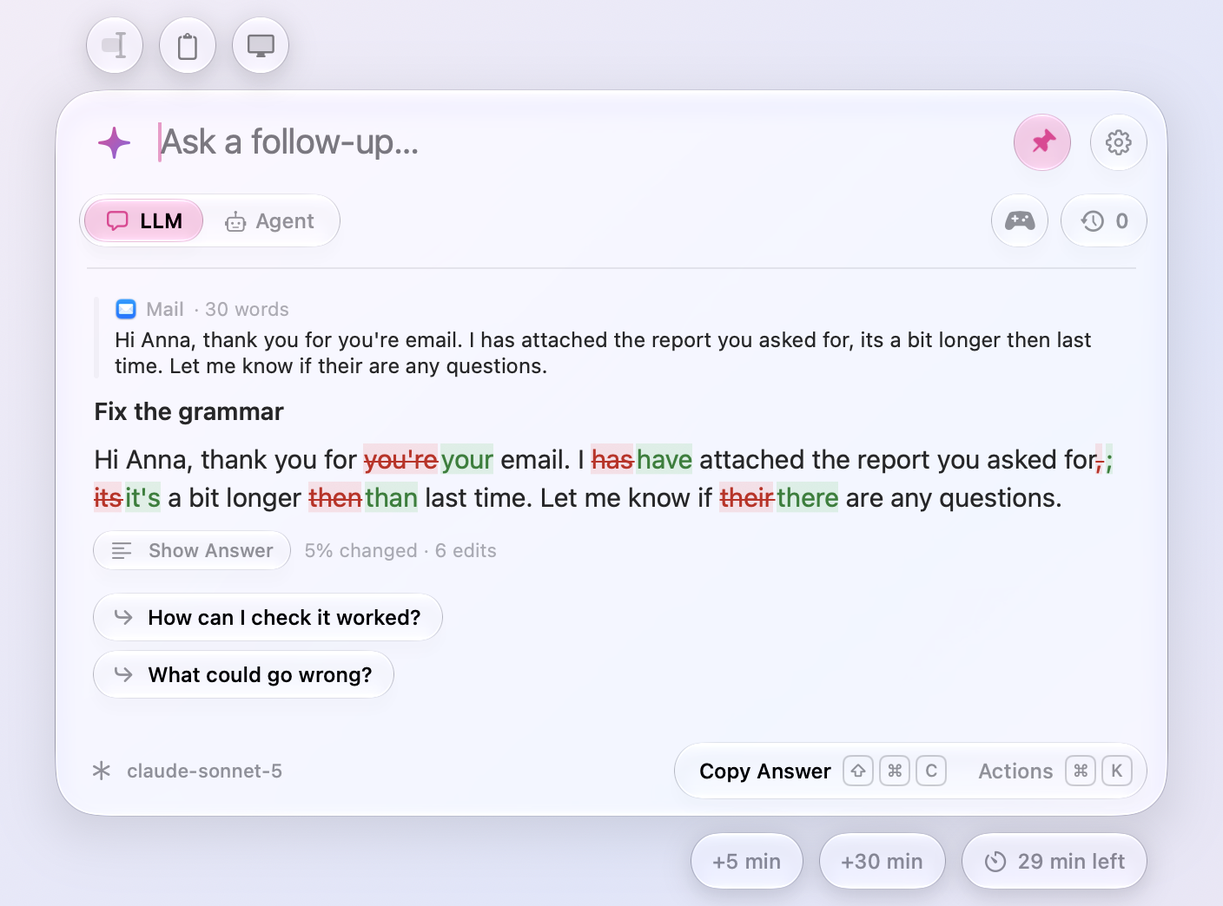
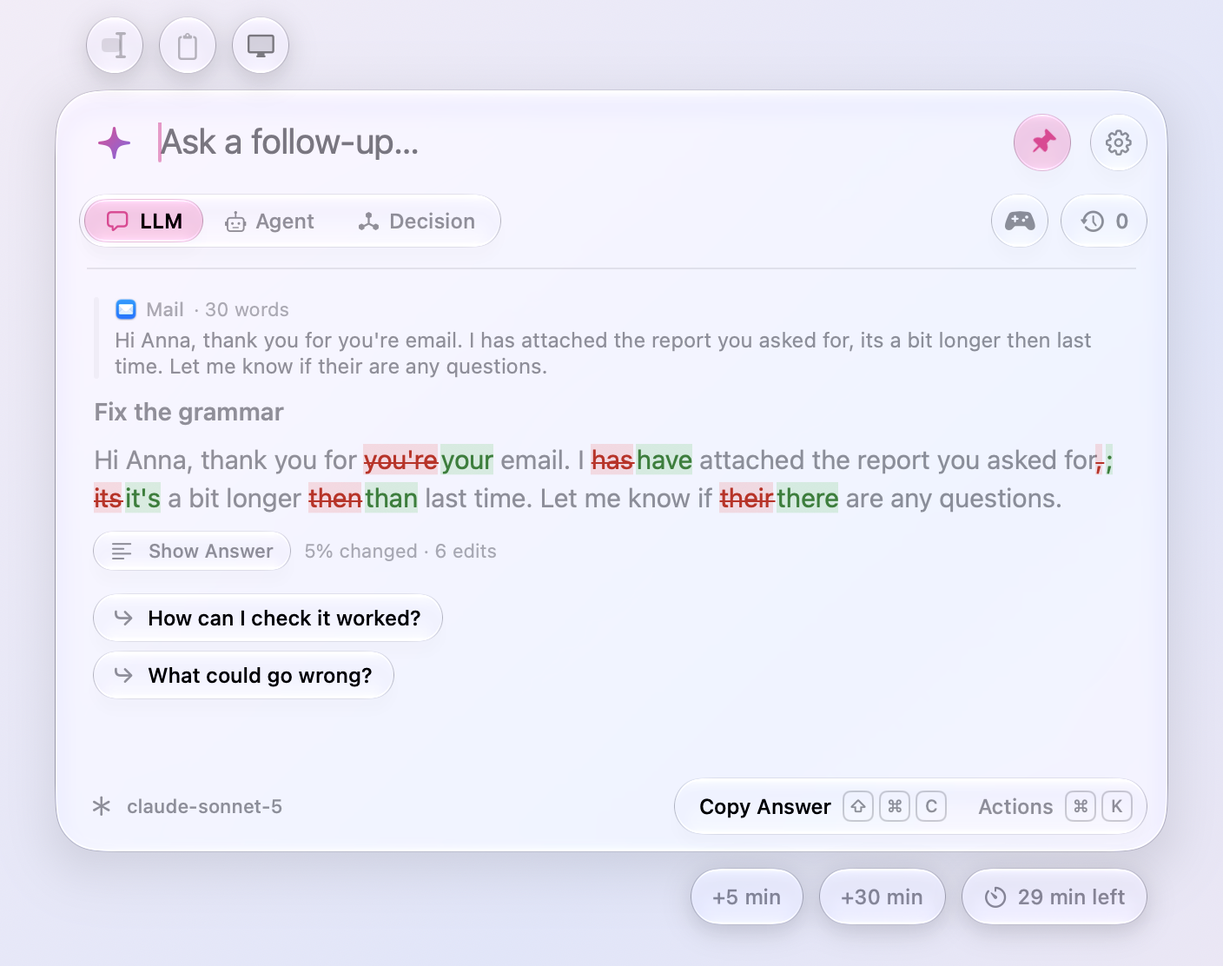
Show What Changed grays the text that stayed and deepens the tints
In a long text with a few edits, a changed hyphen or comma in color on
a faint tint was lost among white text. The text that stayed is now in
the secondary color, since in this view it is context for checking the
changes, so the edits are the brightest thing on the card and an added
word differs from its neighbors in brightness, not only hue. The tints
behind what went and came are stronger on dark glass, where a faint one
sank into whatever was behind the window, and a pastel on light glass.

diff --git a/Meraline/Panel/ChangesView.swift b/Meraline/Panel/ChangesView.swift
@@ -2,8 +2,10 @@ import AppKit
 import SwiftUI
 
 /// An answer drawn as what it changed in the text its question was about (see `TextChanges`), in the answer's
-/// place: what stayed as it was, what went struck through in red, and what came in green, each on a faint tint
-/// of its color so a changed comma or space shows too. The line through removed words tells the two apart
+/// place: what stayed as it was in the secondary color, since here it is context for checking the changes, what
+/// went struck through in red, and what came in green, each on a tint of its color so a changed comma or space
+/// shows too. The gray around them is what makes three edits in a page stand out at a glance, and tells an added
+/// word from its neighbors by brightness, not only hue; the line through removed words tells the two apart
 /// without their colors. Plain text rather than Markdown, since the changes are to the text's own characters,
 /// and code from a code block in monospace. It grows with the answers' zoom, as `MarkdownView` does.
 struct ChangesView: View {
@@ -37,15 +39,16 @@ struct ChangesView: View {
             switch segment {
             case .same(let same):
                 run = AttributedString(same)
+                run.foregroundColor = .secondary
             case .removed(let removed):
                 run = AttributedString(removed)
                 run.foregroundColor = Color(nsColor: .removedText)
-                run.backgroundColor = Color(nsColor: .systemRed).opacity(0.13)
+                run.backgroundColor = Color(nsColor: .removedTint)
                 run.strikethroughStyle = .single
             case .added(let added):
                 run = AttributedString(added)
                 run.foregroundColor = Color(nsColor: .addedText)
-                run.backgroundColor = Color(nsColor: .systemGreen).opacity(0.16)
+                run.backgroundColor = Color(nsColor: .addedTint)
             }
             run.font = font
             text += run
@@ -59,6 +62,11 @@ struct ChangesView: View {
 extension NSColor {
     static let removedText = NSColor(name: nil) { $0.isDark ? .systemRed : NSColor(srgbRed: 0.78, green: 0.13, blue: 0.11, alpha: 1) }
     static let addedText = NSColor(name: nil) { $0.isDark ? .systemGreen : NSColor(srgbRed: 0.1, green: 0.5, blue: 0.2, alpha: 1) }
+
+    /// The tints behind what went and what came in `ChangesView`: stronger on dark glass, where a faint one sinks
+    /// into whatever is behind the window, and a pastel on light glass, where the same tint would shout.
+    static let removedTint = NSColor(name: nil) { NSColor.systemRed.withAlphaComponent($0.isDark ? 0.26 : 0.16) }
+    static let addedTint = NSColor(name: nil) { NSColor.systemGreen.withAlphaComponent($0.isDark ? 0.28 : 0.2) }
 }
 
 private nonisolated extension NSAppearance {

diff --git a/MeralineTests/ShowWhatChangedTests.swift b/MeralineTests/ShowWhatChangedTests.swift
@@ -1,4 +1,5 @@
 import Foundation
+import SwiftUI
 import Testing
 @testable import Meraline
 
@@ -110,6 +111,22 @@ struct ShowWhatChangedTests {
         #expect(back.title == "Show Answer")
         context.run(back, in: .chat)
         #expect(layout.answersShowingChanges.isEmpty)
+    }
+
+    @Test func theTextThatStayedIsGrayAndWhatChangedSitsOnATint() throws {
+        let changes = try #require(TextChanges.diff(from: "i has a apple", to: "i have a apple"))
+        let text = ChangesView.text(of: changes, fontSize: 15)
+        let runs = text.runs.map { (String(text[$0.range].characters), $0) }
+        let stayed = try #require(runs.first { $0.0 == " a apple" }?.1)
+        #expect(stayed.foregroundColor == .secondary, "what stayed is context for checking the changes")
+        #expect(stayed.backgroundColor == nil)
+        let went = try #require(runs.first { $0.0 == "has" }?.1)
+        #expect(went.strikethroughStyle != nil)
+        #expect(went.backgroundColor == Color(nsColor: .removedTint))
+        let came = try #require(runs.first { $0.0 == "have" }?.1)
+        #expect(came.strikethroughStyle == nil)
+        #expect(came.backgroundColor == Color(nsColor: .addedTint))
+        #expect(came.foregroundColor == Color(nsColor: .addedText))
     }
 
     @Test func noChangesNoAction() async throws {

diff --git a/AGENTS.md b/AGENTS.md
@@ -61,7 +61,7 @@ Commit as you go. Every change that is done and passes its tests gets its own co
 - **Attachments.** Dropping or pasting (⌘V) attaches an image, which works in either mode, or any other file or a folder, which only an agent reads: the prompt names it and the agent finds a copy in its working directory, a subfolder for a folder. The agent starts one level above a copied project on purpose, so the project's own agent settings (hooks, `opencode.json`, `.mcp.json`) never load by themselves. A folder in git brings what `git ls-files --cached --others --exclude-standard` lists, plus `.git` at a repository's top; any other folder comes whole; either way at most `FileAttachment.folderLimit` files, and never a disk or the home folder. In LLM mode an attachment waits in the draft under a row with Switch to Agent, and Return does nothing until you switch or remove it. Games take neither.
 - **Selected text and files.** The shortcut reads the frontmost app's selection before the panel takes the keyboard (`PanelController.toggleBringingSelection`): through Accessibility first (selected text, or else the selected items of a file browser, whose `AXURL` names the file, as Finder's do), and for an app that doesn't answer, by pressing the ⌘C item in its own menu through Accessibility and restoring the clipboard. Only an app whose focused element is its window, so it describes none of its content (Zed), gets a posted ⌘C, with the key that types C in the current layout and only when its menu item is missing or reads disabled; other apps never get a keystroke, so nothing beeps. A copy that VS Code (`isFromEmptySelection`, inside Chromium's `org.chromium.web-custom-data`) or Zed (`is_entire_line` in `zed-metadata`) marks as a line copied from an empty selection counts as nothing selected. It never reads Meraline, password fields, or under secure input. Selected text never joins the question by itself: the shortcut only offers it (`ChatSession.offeredSelection`, withdrawn when the window closes), and the selection button above the card adds it to the draft (`toggleOfferedSelection()`). The button can't read the selection itself, because by the time it is clicked the panel has the keyboard. Once added, each text waits in the draft (`draftSelections`, as many as you add) in a card of its own between the input and the `ModeBar` (as does text written in the window for a decision, `SelectedText.typed`, in `TypedStateCard`), goes with the question as a `<selected_text from="App">` block, in order, and stays with the turn as a quote (`Turn.selections`): the app, its word count (`SelectedText.lengthLabel`), and two lines of the text, which its header opens in full and folds back when they cut it short. Both the quote and the draft's card find out whether their lines cut anything by laying the text out hidden behind itself (`QuoteText`), so the chevron only shows when there is more to see. The Services menu (`NSServices` in project.yml) and `meraline://ask?selection=` bring it without Accessibility access. So does a drag: text dropped anywhere on the card, the input included, joins the draft as a card of its own, named after the app in front, which is the one it came from (`SelectedText.handedOver`, as the Services menu names it); `ClipboardContent.drop(of:)` tells a dropped item's text from a file or picture, and a web page's picture, which drags its address along as text, stays a picture. The input's field editor, SwiftUI's own, would take a drop itself, so `FloatingPanel` takes its drag types off after each focus and when the window gives up the keyboard. Don't hand SwiftUI a field editor of Meraline's instead: its text field crashes on any other class. The Services menu also takes a picture, as Preview hands over a selected image (TIFF) and other apps their own image data, and attaches it as an image in either mode, once however often the same picture comes (`ChatSession.bring(_:)`); `ClipboardContent.readSelection(from:)` reads what it is handed as the clipboard button reads the clipboard, except that text wins over a picture whatever the app listed first, so a selection that is both stays words. Finder files go through `ChatSession.bring(files:)`: photos in either mode, anything else, folders included, only in Agent mode (the Services menu brings everything, like a drop), and each press of the shortcut takes exactly what is selected then (`bringCurrentSelection`): files replace what an earlier selection brought and text replaces the offer, and nothing selected takes both away, while anything added by hand, the draft's text included, stays. ⌫ in an empty input takes out the last text, then the last attachment, and ignores key repeats. Games ignore both. Only the on/off setting and whether the hint was dismissed live in UserDefaults.
 - **Selection, clipboard, and screenshot.** Three glass circles float above the card's top left, lined up with the sparkle (`ContextButtons`, drawn in the window's top margin, which is `ContextButtons.roomAbove` taller for them). Context adds up: every click adds what its button has now, so texts from several apps, several copies, and a screenshot per visit can all go with one question. A click takes out instead only when that exact version is in the draft already: the same selected text (`SelectedText.isSame(as:)`), the same clipboard copy (by `NSPasteboard.changeCount`), or the same visit to the screen (`ContextSources.screenVisit`, which moves when the window opens, the app in front changes, or the window changes screens). `ContextSources` (owned by `PanelController`, in memory) remembers which draft items came from which copy or visit; ⌘V's attachments count as the clipboard's. Each button has three states (`ContextButtons.Status`): unavailable, faded and disabled (no text offered, nothing addable on the clipboard, or the draft at `ImageAttachment.limit` images); available, neutral glass; and added, the active pin's pink symbol and faint pink glass. Don't collapse them. The selection button (⇧⌘E, a text cursor at the end of a highlight, drawn by hand in `SelectionIcon`) toggles the offered text (`toggleOfferedSelection()`). The clipboard (⇧⌘V) reads `NSPasteboard.general` through `ClipboardContent`: copied files attach as ⌘V attaches them, a picture as an image, and text goes to a card of its own as `SelectedText.clipboard` (`isFromClipboard`), which the model reads as a `<clipboard>` block; with both a picture and text, the kind the copying app listed first wins. While the window is up, `ContextSources` looks at the change count every 0.75 s, and at the clipboard's kinds (never its contents) when it moves; anything a password manager marks `org.nspasteboard.ConcealedType` or `TransientType` is never read. The screen (⇧⌘S) takes one picture of the screen the window is on with ScreenCaptureKit, leaving out every Meraline window (`SCContentFilter` excluding Meraline's own app), and attaches it as an image; it needs Screen Recording access, and without it a capsule beside the buttons offers Allow…, which resets Meraline's own entry with `tccutil` and asks, as Accessibility does. `ContextSources.addClipboard(to:)` and `addScreenshot(of:to:)` do the adding, and hold the capsule's notice, for the buttons and for `meraline://ask?clipboard=1&screen=1` (`PanelController.addContext`) alike; keep it one path. Nothing they add is saved anywhere; games take none of it, so the buttons fade out while one is on.
-- **Show What Changed.** An answer that gives back the text its question was about, changed (“Fix the grammar” about a selection or the clipboard), offers Show What Changed under it and in the chat's actions (⌘D, the last answer's): the answer's place shows the text with what went struck through in red and what came in green, word by word, each on a faint tint of its color, and the button, one view whose label changes, says Show Answer to go back. Beside it either way, and on its row in the actions, the changes in numbers only (`TextChanges.stats`): “5% changed · 6 edits”, the letters and marks that went or came out of those in both texts, where a word put right counts only its letters that differ, so a typo is a small change; “<1%” when an edit rounds to nothing, and “0% changed” without edits. The strike tells the two apart for the colorblind; keep it. `ChatSession` looks for the changes off the main actor when an answer ends without being stopped (`findChanges(at:)`, then `Turn.changes`), against the texts of its question, or for a follow-up about none, of the last question that had some, and each of them together. `TextChanges.find` compares the whole answer, what follows a first line ending in a colon, and each code block (drawn in monospace) or quote, and keeps the part with the most of the text in order: at least `minimumSimilarity` (half) of its letters and marks, so explanations, summaries, and translations have none, and a short word put right still counts. Words, runs of spacing, and marks are compared by Myers's algorithm, inside the grid, up to `editLimit` of them going and coming; spacing swapped for spacing shows as the new spacing. Typed text in the question is never compared. Which answers show their changes is `PanelLayout.answersShowingChanges`, in memory only; Copy, Insert, and Tear Off always take the answer.
+- **Show What Changed.** An answer that gives back the text its question was about, changed (“Fix the grammar” about a selection or the clipboard), offers Show What Changed under it and in the chat's actions (⌘D, the last answer's): the answer's place shows the text with what went struck through in red and what came in green, word by word, each on a tint of its color (stronger on dark glass, `NSColor.removedTint`, `addedTint`), and the text that stayed in the secondary color, so a few edits in a long text stand out of the gray around them, and the button, one view whose label changes, says Show Answer to go back. Beside it either way, and on its row in the actions, the changes in numbers only (`TextChanges.stats`): “5% changed · 6 edits”, the letters and marks that went or came out of those in both texts, where a word put right counts only its letters that differ, so a typo is a small change; “<1%” when an edit rounds to nothing, and “0% changed” without edits. The strike tells the two apart for the colorblind; keep it. `ChatSession` looks for the changes off the main actor when an answer ends without being stopped (`findChanges(at:)`, then `Turn.changes`), against the texts of its question, or for a follow-up about none, of the last question that had some, and each of them together. `TextChanges.find` compares the whole answer, what follows a first line ending in a colon, and each code block (drawn in monospace) or quote, and keeps the part with the most of the text in order: at least `minimumSimilarity` (half) of its letters and marks, so explanations, summaries, and translations have none, and a short word put right still counts. Words, runs of spacing, and marks are compared by Myers's algorithm, inside the grid, up to `editLimit` of them going and coming; spacing swapped for spacing shows as the new spacing. Typed text in the question is never compared. Which answers show their changes is `PanelLayout.answersShowingChanges`, in memory only; Copy, Insert, and Tear Off always take the answer.
 - **Prompts.** Settings › Prompt edits every system prompt Meraline sends (`SystemPrompt`): one for the LLMs, one for the agents (`ChatSession.makeRequest` picks by the provider's mode), each game's, and the one Why? runs with (`ToolReason`). The agents' gets `PresentFilesServer.instructions` added after it, which Settings doesn't show. Nor does it show what the follow-ups under an answer are asked with (`FollowUps.instructions(in:)`), which only Apple's on-device model reads. At the top of the pane, Language (`Preferences.language`, an `AnswerLanguage`, English by default, kept in UserDefaults) adds one line after whichever prompt a request sends (`Preferences.instructions(for:)`, never saved into the prompt): chats and agents answer in it unless asked for another language, and the games and Why?, written in English, get a line only for another language, telling a game to keep the markers it reads (“OK: ”, “ | ”, …) as they are. Each prompt's default lives in code (a game's `GameRules.systemPrompt`), and only a changed prompt is kept in UserDefaults, under `systemPrompt.<name>`, so one set back to its default follows later defaults. The one prompt of older versions (`systemPrompt`) carries over to both modes once, when it was changed. A game reads the model's replies in the format its prompt asks for, so its default and its parsing change together. Presets (`PromptPreset`; each mode has a list of its own, `Preferences[presets:]`: for the LLMs Fix Grammar, Anti-Slop, Anonymize, and Translate, into the Language, for the agents Find Bugs, Explain Code, Write Tests, and Research, and for decisions Urgent?, Scam?, Tone, and Priority, by default) are no system prompt but a first question of your own, each ending as a sentence, never with a colon, since the text comes on the card, not after the preset: glass capsules of an icon and a name above an empty chat's top right, lined up with the gear, in the room the buttons on the left leave (the names give way to the icons, then the row scrolls). A click puts the preset's text in the input ahead of what is typed, another preset's text giving way to it, and, when the draft holds nothing for it to work on (no text, file, or picture), opens the Context card with the keyboard in it (`ChatSession.apply` says whether it did), so the text can be pasted at once; a second click takes the preset out, pink while it is there, and leaves the card; a Shift-click sends it, and while Shift is down the capsule under the pointer shows an arrow and turns pink like a chosen capsule (pink symbol, semibold name, faint pink glass), as a follow-up does. Once an answer is ready (`ChatSession.canRewrite`), the chat's actions offer the presets too, after the rewrites, the first nine on ⌘1…⌘9 (`ActionShortcut.Key.digit`, matched by the key's place on the number row or keypad, so they work whatever the layout types there): one runs on the last answer as a rewrite does (`ChatSession.run(_:)`), asking with the preset's text and that the text is the answer (`PromptPreset.instruction`), and counts in the ledger as the rewrite `preset`, never by its name. The capsules are for an empty chat only: once a chat starts they sink into the card one after another, staying in the view tree faded and disabled, so nothing is inserted while the window is hidden. All three modes' rows are in the view tree all along (`ChatPanelView` stacks them), the current mode's up and the others sunk and taking no click, so a change of mode sinks one row as the next rises and inserts nothing. Settings › Prompt edits, adds, moves, and deletes each mode's list, icons included (`PresetsSection`); only a changed list is kept, in UserDefaults under `promptPresets` for the LLMs and `promptPresets.<mode>` for the others, so presets left alone follow later defaults and the Language, and Copy Diagnostics says only which modes' changed and how many there are.
 - **Decisions.** The third mode, Decision (⌘3), asks a System One model, one that writes nothing: TypeSafe's Jev directly (`Provider.typeSafe`), or any of the `text->decisions` models OpenRouter serves over the same contract (`Provider.openRouterDecision`, whose key is OpenRouter's under LLMs, one Keychain item through `Provider.keyAccount`, and whose `suggestedModels`, `Provider.openRouterDecisionModels`, are the ones run live with Meraline's own requests, Respan's left out since they read only a conversation transcript), or one Ollama runs on this Mac (`Provider.ollamaDecision`, Ollama 0.35 or newer: no key, off until Settings turns it on like Ollama under LLMs, `Provider.ollamaDecisionModels`, Bespoke Labs' Nimble and Together's Tev1, which the pane's footer says to pull, free in the ledger through `Provider.runsOnThisMac`, and a chat model it is asked for gets Ollama's own readable error); `Provider.decisionModels` lists the three under `ProviderKind.decision`. `DecisionClient` posts one request to `POST /v1/systemone`, at TypeSafe, at OpenRouter, or at Ollama, with the key as a bearer token when the provider takes one, and reads one JSON reply, never a stream, into a `Decision` (`StreamOutput.decision`), which `Turn.decision` keeps beside `answer`, the decision in words (“Yes (82% confident)”, `Decision.summary`) for Copy, Insert, Recent Chats, and the transcript's Markdown. Jev takes no system prompt (`ProviderKind.prompted` leaves Decision out of Settings › Prompt and `SystemPrompt.allCases`) and keeps no conversation: the request's state is the chat's texts, every turn's `selections` and the draft's (`ChatSession.decisionState`), so a follow-up asks about the same texts anew, and the quote shows once, on the question that brought it. Text is optional: with none, `makeDecisionRequest` sends the question itself as the state, so a question that stands on its own is decided as it is; while there is none (`needsDecisionState`), `DecisionStateRow`, between the input and the mode row, suggests adding some, and its Write It puts `TypedStateCard` in its place, for `ChatSession.typedState`, which goes with the question as `SelectedText.typed`, quoted as Context, a `<text>` block for any other provider; pictures wait with a Switch to LLM row (`pictureNotice`) and files with Switch to Agent, the screenshot button is unavailable, the clipboard button reads text only (`ClipboardContent.readText`), and Finder's selection brings nothing. The answers are Yes and No (Jev's `noul` question) unless the question names its own after its last question mark or colon, with `/` between them (`choice`, no descriptions) or `<` for levels in order (`score`, at most 10; more go as a set): `DecisionAnswers.split` reads them off, Settings › Prompt › Decisions sets the ones a question that names none picks from (`Preferences.decisionAnswers`, written the same way, Yes / No until changed), and the badge at the games' place shows what the draft picks from (`draftAnswers`). Beside it, a switch (`DecisionScopeToggle`, `Preferences.decisionScope`, kept in UserDefaults) decides about the whole text or each of its words or lines (`DecisionScope.items(in:)`: words split at spaces with the punctuation around them left off, lines trimmed, each once): the items go in the state and each gets a question of its own, named `item_<n>` with the question, `items[n]`, and the item as its instructions, `DecisionScope.batchSize` (100) a request, and each reply grows the turn's `DecisionBatch`. Ollama's models read every question of a request in each prompt, and a prompt takes at most 2,050 tokens (the `num_ctx` they ship with, which a request can't raise), so Ollama gets `Provider.questionsPerRequest` (8) a request, trimmed (`Provider.trimsDecisionState`, `DecisionRequest.body(model:itemsFrom:count:trimmed:)`): the state holds only the batch's items, which the questions name from 0, and the texts only up to `DecisionRequest.trimmedTextLimit` (2,000 characters), while the questions keep their names by their place among all the items, so the reply reads the same; a whole text past the prompt's size gets Ollama's own error, which names the tokens. Eight fits lines of sixty words and takes about as long an item as a bigger batch, since the tokens grow with the batch squared. Jev and OpenRouter get every item and the texts (`StreamOutput.decisions`, `Turn.decisions`), so `BulkDecisionCard` fills as they come, then groups the words or lines by answer, Not Sure last and each answer's surest first (`DecisionBatch.groups(unsureBelow:)`, which `summary` follows), every answer folded to its header and count until a click on it opens its words or lines in place (`PanelLayout.openDecisionGroups`, by turn and answer, in memory only, so a reopened chat keeps what was open and a new decision starts folded), and `answer` sums them up in Markdown. At most `DecisionScope.itemLimit` (1,000) items a question; past it the draft waits with a Whole Text row (`bulkNotice`), and a text with no items is decided about whole. Every item counts as a decision in the ledger. `DecisionCard` draws the answer: a check on green glass for Yes, a cross on red for No (`NSColor.addedText`, `removedText`, as Show What Changed), ringed by the confidence, “82% confident” beside it, and every answer's probability under it in the answers' order; a list of your own gets a check tinted by Jev's confidence (amber when it is moderately sure, green when very sure), levels in order a scale (`ScaleRow`) with a marker where Jev placed the text, between two levels when it isn't sure, and each level's share under it, and under `Preferences.unsureBelow` (Settings › Prompt › Decisions, 50% by default) the card says Not Sure with a question mark and the lean. The confidence is Jev's own, 0 to 1, which for two answers is twice the winner's probability less one (`Decision.confidence(over:)` when a reply carries none), and the check, the cross, and the words carry the meaning, so the colors are only a help. No follow-ups are suggested for a decision, and no rewrite, preset on the answer, Show What Changed, Tear Off, or zoom is offered; Ask Again asks about the same texts. Games are never played against Jev: the tray fades in Decision mode, `startGame` switches to the LLM's or the agent's mode, and `gameProvider` falls back to their default. The ledger counts `decisions` and `unsureDecisions`, never an answer's name, prices Jev at TypeSafe's list price (`ModelPrice.jev`, which OpenRouter's list of models doesn't carry) and OpenRouter's decision models at what each reply says it cost (`usage.cost`, into `TokenUsage.cost`), Jev's price for tokens no one priced, and the cost pills get a third capsule. `meraline://ask?mode=decision` and `meraline://mode?mode=decision` name the mode (`agent=1` still works), and `meraline://mode` alone goes around the toggle (`ProviderKind.next`).
 - **Links in answers.** `AnswerLinks` turns a path in an answer into a link only when it names a file or folder on this Mac, and a `meraline://` URL only when it has a route. A path counts when it is absolute, starts with `~/`, or, in an agent's chat, is relative to its workspace (`answerWorkspace` in the environment) and has a slash or an extension. It may take in up to `wordsWithSpaces` more words, or a whole code span, for names with spaces, and a line number after it (`App.swift:42`) stays in the link. A link the model wrote to a path leads to the file too. Code blocks are left alone. Links are found each time an answer is drawn, on the main thread, and kept nowhere, so paths on servers and autofs (`remoteMountPoints()`) are never looked at: a look there can wait a minute. A click opens by a handed-over file's rules (`PresentedFile.opening(of:isFolder:)`: nothing runs, scripts open as text, apps are only shown in Finder), marking a workspace file as downloaded first; ⌘-click, read off the click itself, shows it in Finder. A `meraline://` link runs its route in this Meraline without its `send` (`AutomationRoute.withoutSending`), so a question the model wrote waits for Return. Each answer in a torn-off note keeps its chat's workspace for them.

diff --git a/CHANGELOG.md b/CHANGELOG.md
@@ -9,6 +9,7 @@ When a version has an entry here, the Release workflow uses it as the release no
 ### Ask
 
 - **The Context card takes the keyboard.** Tab, Decision's Write It, and Add Text in the sparkle's panel open the card under the input with the cursor in it, so you can paste or type at once; the cursor used to stay in the input. Tab in the card goes back to the input.
+- **What changed stands out.** In Show What Changed, the text that stayed as it was is now gray, and the words that went and came sit on deeper red and green, so three edits in a long page are found at a glance instead of hunted for among white text. The strike through what went stays.
 - **Presets open the Context card.** Click Fix Grammar, Anti-Slop, Find Bugs, or any other preset with nothing to work on yet, and the Context card opens under the input with the cursor in it, ready for the text. With text selected or copied, or a file or picture attached, the preset fills the input as before. The default presets now end as sentences rather than a colon, since the text comes on the card, not after them.
 
 ### Decision
